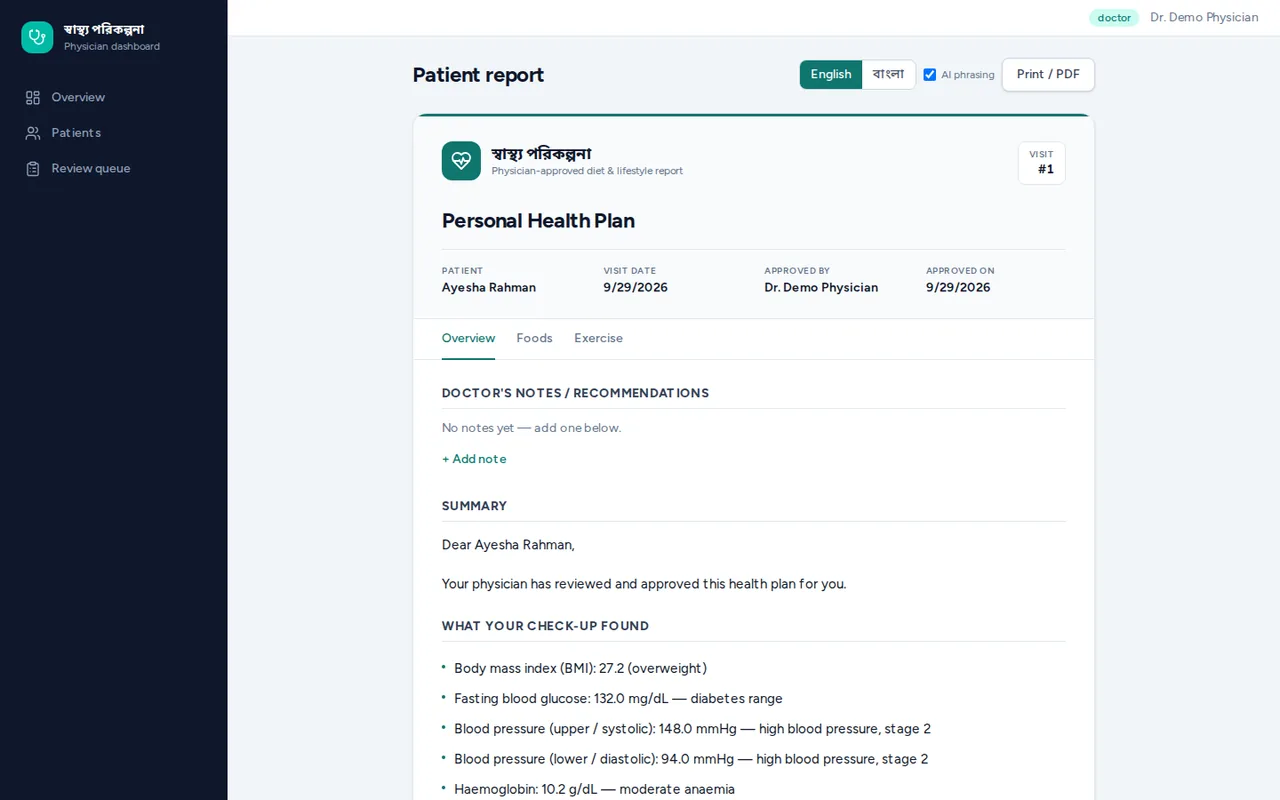
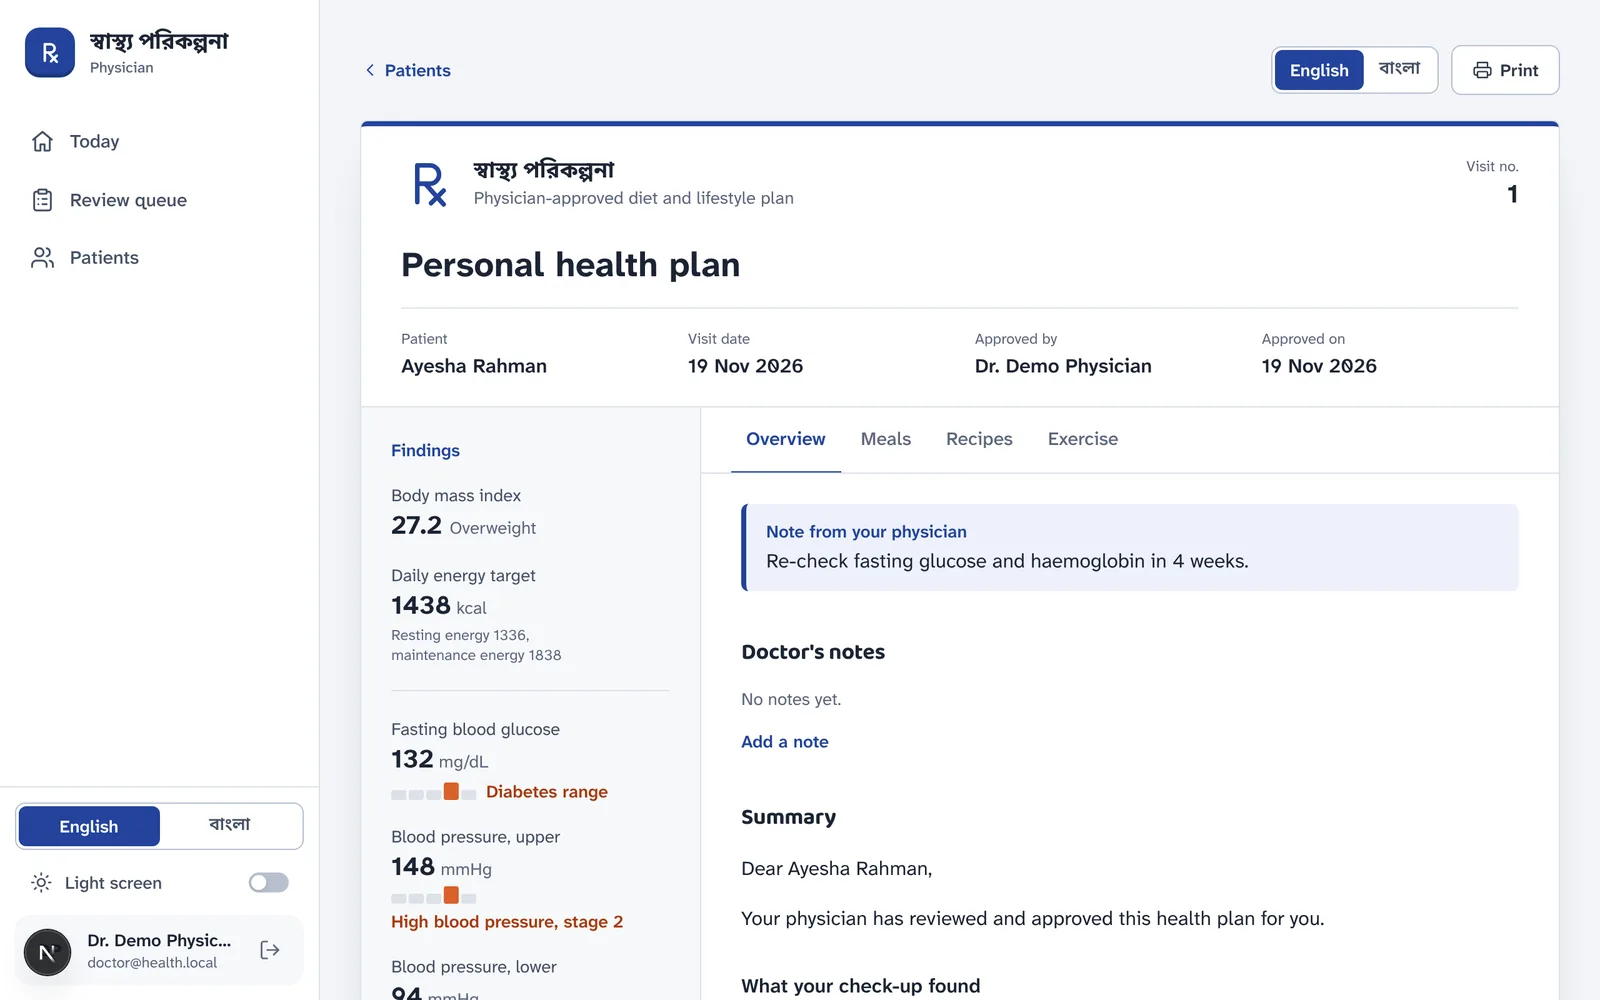
Fresh thesis screenshots and move research to the top
- Six new screenshots of the current app (doctor review, report preview,
  approved plan, doctor dashboard, patient checklist in Bangla, exercise
  plan), captured at 2x from a local run with the demo data
- Research is now the first section after the hero and first in the nav

diff --git a/src/data.jsx b/src/data.jsx
@@ -4,7 +4,7 @@ export const GITHUB_USER = "Sdb002";
 export const GITHUB_URL = `https://github.com/${GITHUB_USER}`;
 export const repoUrl = (name) => `${GITHUB_URL}/${name}`;
 
-export const NAV_LINKS = ["about", "stack", "work", "research"];
+export const NAV_LINKS = ["research", "about", "stack", "work"];
 
 export const STATUS = [
   { k: "location", v: "Bangladesh" },
@@ -192,9 +192,12 @@ export const THESIS = {
   video: { id: "FuxZCczwg9w", caption: "Demo: the system end to end" },
   tags: ["FastAPI", "SQLAlchemy", "PostgreSQL", "Next.js", "TypeScript", "scikit-learn", "RapidOCR", "Vercel"],
   shots: [
-    shot("thesis/assessment", 1280, 800, "Assessment: findings, safety exclusions and a Bangladeshi diet plan"),
-    shot("thesis/queue", 1280, 800, "Review queue: nothing reaches a patient until a doctor approves it"),
-    shot("thesis/report", 1280, 800, "The physician-approved patient report"),
+    shot("thesis/review", 1600, 1000, "Doctor's review: findings, the week's diet plan, and the sign-off bar"),
+    shot("thesis/preview", 1600, 1000, "The doctor reads the patient's exact report before approving it"),
+    shot("thesis/report", 1600, 1000, "The approved health plan, signed by the physician"),
+    shot("thesis/dashboard", 1600, 1000, "Doctor's dashboard: highest-risk patients first"),
+    shot("thesis/today-bn", 1600, 1000, "Patient's daily checklist, in Bangla"),
+    shot("thesis/exercise", 1600, 1000, "Patient's exercise plan, ranked after the safety gate"),
   ],
   stats: [
     { k: "0.999", v: "food-ranking Spearman ρ on held-out patient types (nested CV), vs 0.844 for the formula" },

diff --git a/src/App.jsx b/src/App.jsx
@@ -12,10 +12,10 @@ export default function App() {
       <Nav />
       <Hero />
       <main>
+        <Research />
         <About />
         <Stack />
         <Work />
-        <Research />
       </main>
       <Contact />
     </>
